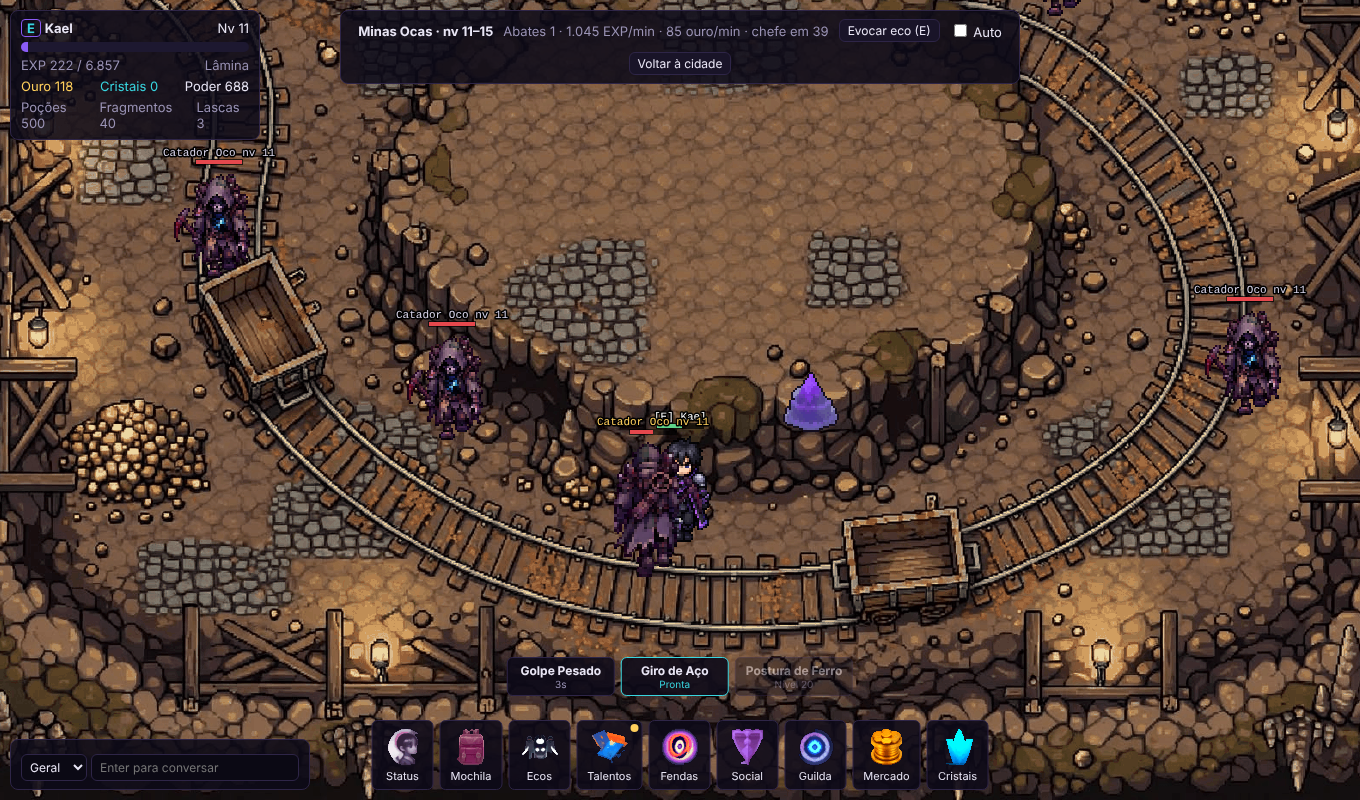
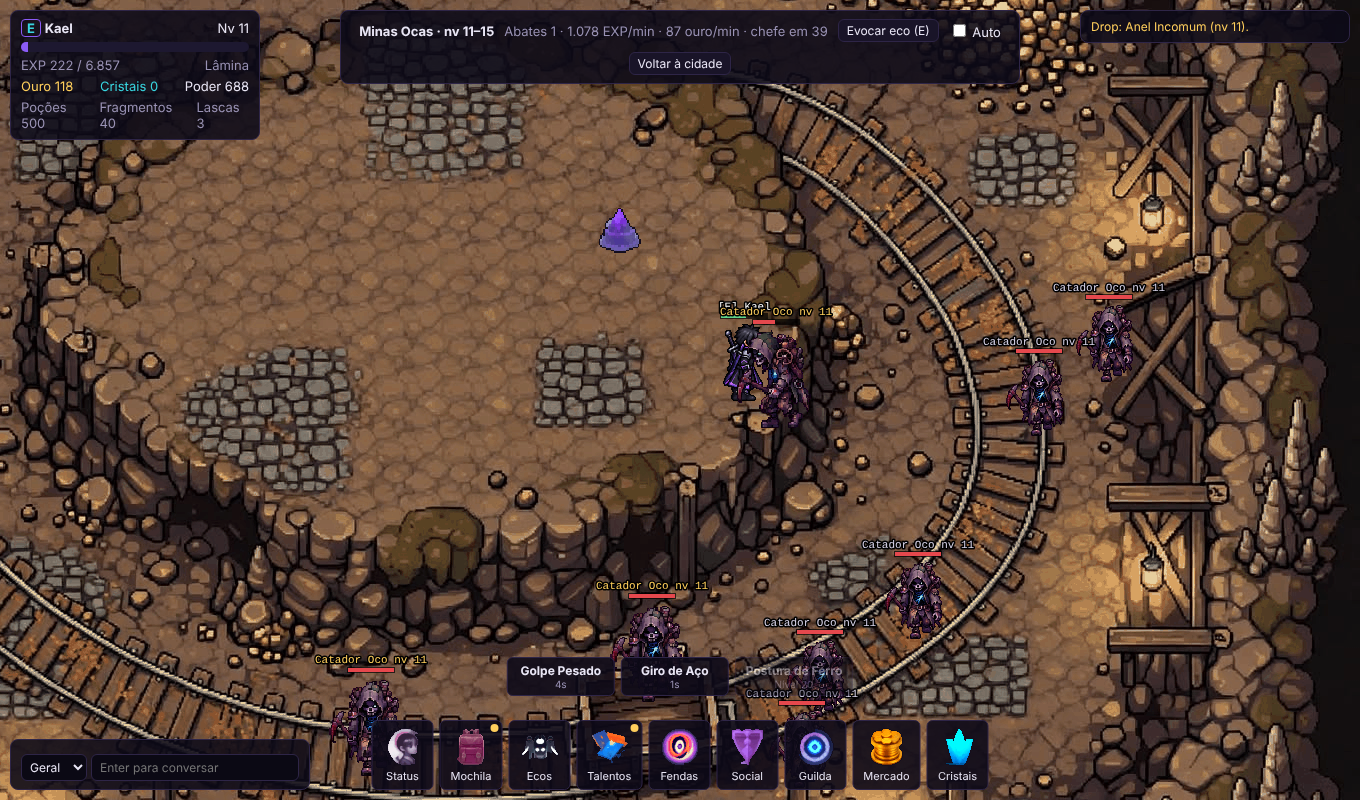
Mapas maiores e personagens em tamanho real
Os mundos passam a ter 1920x1280, o tamanho dos mapas gerados, e o mapa
aparece sem redução. As folhas animadas são reimportadas com 80 px de
altura e exibidas sem ampliação; sprites antigos são ampliados 1,5x
para a mesma altura. Os NPCs, as margens das paredes e a quantidade de
monstros acompanham o mundo maior. import_map.py não apaga mais o
original quando é reimportado a partir dele.

Claude-Session: https://claude.ai/code/session_01R9bEA8madkQfyix1h3Gv4o

diff --git a/client/src/scene.ts b/client/src/scene.ts
@@ -8,7 +8,10 @@ import { onMessage, send } from './net.ts'
 
 // Formatos que a cena não carrega: ícones e fundo são da interface; 'props' só alimenta o montador de mapas.
 const UI_ONLY = new Set(['icon', 'wide', 'props'])
-const SCALE = 2 // ampliação dos sprites em pixel art
+// Folhas animadas já vêm no tamanho final (80 px de altura) e aparecem em tamanho real.
+// Imagens únicas antigas (52 px) são ampliadas para ficar na mesma altura.
+const LEGACY = 1.5
+const scaleFor = (key: string) => (ANIMATED.has(key) ? 1 : LEGACY)
 const CELL = 64 // tamanho da célula dos marcadores gerados por código
 const hash = (s: string) => { let h = 2166136261; for (let i = 0; i < s.length; i++) h = Math.imul(h ^ s.charCodeAt(i), 16777619); return h >>> 0 }
 const hsl = (h: number, s: number, l: number) => `hsl(${h % 360} ${s}% ${l}%)`
@@ -152,9 +155,10 @@ export class GameScene extends Phaser.Scene {
     if (room.kind === 'city') {
       for (const n of NPCS) {
         const key = `npcs/${n.id}`
-        this.decor.push(this.add.image(n.x, n.y, key).setScale(SCALE).setOrigin(0.5, 1).setDepth(n.y))
-        this.decor.push(this.add.text(n.x, n.y - 122, n.name, { fontSize: '12px', color: '#ffcf5c', stroke: '#000', strokeThickness: 3 }).setOrigin(0.5).setDepth(5000))
-        if (n.panel === 'fendas') this.decor.push(this.add.image(n.x + 96, n.y - 6, 'objetos/fenda').setScale(SCALE).setOrigin(0.5, 1).setDepth(n.y - 1))
+        const img = this.add.image(n.x, n.y, key).setScale(scaleFor(key)).setOrigin(0.5, 1).setDepth(n.y)
+        this.decor.push(img)
+        this.decor.push(this.add.text(n.x, n.y - img.displayHeight - 10, n.name, { fontSize: '12px', color: '#ffcf5c', stroke: '#000', strokeThickness: 3 }).setOrigin(0.5).setDepth(5000))
+        if (n.panel === 'fendas') this.decor.push(this.add.image(n.x + 80, n.y - 6, 'objetos/fenda').setScale(LEGACY).setOrigin(0.5, 1).setDepth(n.y - 1))
       }
     }
   }
@@ -172,7 +176,7 @@ export class GameScene extends Phaser.Scene {
       if (!v) {
         const key = this.textureFor(e)
         // Escala inteira: cada pixel do sprite vira um bloco nítido. Elites são um pouco maiores.
-        const sprite = this.add.image(0, 0, key).setScale(e.mk === 'elite' ? SCALE + 0.5 : SCALE).setOrigin(0.5, 1)
+        const sprite = this.add.image(0, 0, key).setScale(scaleFor(key) * (e.mk === 'elite' ? 1.25 : 1)).setOrigin(0.5, 1)
         const size = sprite.displayHeight
         const box = this.add.container(e.x, e.y, [sprite])
         if (e.k === 'e') sprite.setTint(0x8a6cff).setAlpha(0.88)
@@ -225,7 +229,7 @@ export class GameScene extends Phaser.Scene {
           const key = f.proj === 'arrow' ? 'efeitos/flecha' : 'efeitos/projetil-arcano'
           const p = this.add.image(a.box.x, a.box.y - 40, key).setDisplaySize(36, 36).setDepth(8998).setRotation(Math.atan2(by - (a.box.y - 40), bx - a.box.x))
           this.tweens.add({ targets: p, x: bx, y: by, duration: 110, onComplete: () => p.destroy() })
-        } else this.burst('efeitos/golpe', bx, by, 90)
+        } else this.burst('efeitos/golpe', bx, by, 64)
       }
       const mine = b.ent.me
       this.floatText(bx, by - 14, `${f.crit ? '✦' : ''}${f.dmg}`, mine ? '#ff6b7a' : f.skill ? '#7df2ff' : f.crit ? '#ffcf5c' : '#ffffff', f.skill ? 19 : f.crit ? 18 : 13)

diff --git a/shared/content.ts b/shared/content.ts
@@ -141,17 +141,18 @@ export const RIFTS: RiftDef[] = [
 ]
 export const BOSS_EVERY_KILLS = 40
 export const ELITE_CHANCE = 0.06
-export const HUNT_MAP = { w: 1600, h: 1100 }
-export const CITY_MAP = { w: 1400, h: 1000 }
+// Mundos no tamanho exato dos mapas gerados (1920×1280, proporção 3:2): o mapa aparece sem redução.
+export const HUNT_MAP = { w: 1920, h: 1280 }
+export const CITY_MAP = { w: 1920, h: 1280 }
 export const CITY_NAME = 'Vértice'
 
 export interface NpcDef { id: string; name: string; role: string; panel: string; x: number; y: number }
 // Posições casadas com as quatro praças redondas das diagonais do mapa da cidade (mapas/cidade.png).
 export const NPCS: NpcDef[] = [
-  { id: 'guardia-das-fendas', name: 'Ísis, Guardiã das Fendas', role: 'Abre as caçadas', panel: 'fendas', x: 290, y: 310 },
-  { id: 'mercador', name: 'Tobias, o Mercador', role: 'Vende consumíveis', panel: 'loja', x: 290, y: 728 },
-  { id: 'ferreira', name: 'Dária, a Ferreira', role: 'Aprimora equipamentos', panel: 'forja', x: 1110, y: 310 },
-  { id: 'arquivista', name: 'Noé, o Arquivista', role: 'Mostra o ranking', panel: 'ranking', x: 1110, y: 728 },
+  { id: 'guardia-das-fendas', name: 'Ísis, Guardiã das Fendas', role: 'Abre as caçadas', panel: 'fendas', x: 435, y: 400 },
+  { id: 'mercador', name: 'Tobias, o Mercador', role: 'Vende consumíveis', panel: 'loja', x: 435, y: 935 },
+  { id: 'ferreira', name: 'Dária, a Ferreira', role: 'Aprimora equipamentos', panel: 'forja', x: 1485, y: 400 },
+  { id: 'arquivista', name: 'Noé, o Arquivista', role: 'Mostra o ranking', panel: 'ranking', x: 1485, y: 935 },
 ]
 
 // ---------- Progressão ----------

diff --git a/server/src/hunt.ts b/server/src/hunt.ts
@@ -37,8 +37,10 @@ interface Corpse { id: number; x: number; y: number; species: string; kind: MobK
 
 const AGGRO_RADIUS = 170
 // Os mapas têm paredes nas bordas: monstros nascem dentro da área livre e ninguém anda por cima das paredes.
-const EDGE_X = 190, EDGE_Y = 170
-const WALL_X = 130, WALL_Y = 120
+const EDGE_X = 230, EDGE_Y = 200
+const WALL_X = 160, WALL_Y = 140
+// Mapa de 1920×1280: mais monstros para manter a densidade da caçada.
+const MOB_COUNT = 12
 // O chefe do teste de promoção é mais fraco que o chefe da fenda: a luta é solo e sem ecos.
 const PROMO_HP = 0.5
 const PROMO_ATK = 0.62
@@ -67,7 +69,7 @@ export class Hunt {
     this.now = opt.now ?? Date.now
     const list: MemberInit[] = Array.isArray(inits) ? inits : [{ c: inits, key: 0 }]
     list.forEach((init, i) => this.addMember(init, i, list.length))
-    if (opt.mode === 'hunt') for (let i = 0; i < 9 + 4 * (list.length - 1); i++) this.spawnMob()
+    if (opt.mode === 'hunt') for (let i = 0; i < MOB_COUNT + 5 * (list.length - 1); i++) this.spawnMob()
     else if (opt.mode === 'promotion') { this.timeLeft = opt.seconds; this.spawnMob('chefe', this.w / 2 + 260, this.h / 2) }
     else this.timeLeft = opt.seconds
   }

diff --git a/tests/game.test.ts b/tests/game.test.ts
@@ -113,7 +113,7 @@ describe('talentos, habilidades, grupo e arena', () => {
   it('em grupo, todos recebem EXP e ouro e a queda de um não encerra a caçada', () => {
     const a = newCharacter('A', 'lamina'), b2 = newCharacter('B', 'arcanista'), band = RIFTS[0].bands[0]
     const h = new Hunt([{ c: a, key: 1 }, { c: b2, key: 2 }], { mode: 'hunt', monster: band.monster, boss: band.boss, minLevel: band.min, maxLevel: band.max, rng: seeded(9) })
-    expect(h.mobs.length).toBe(13)
+    expect(h.mobs.length).toBe(17)
     for (let i = 0; i < 900 && !h.ended; i++) h.tick(0.1)
     expect(h.kills).toBeGreaterThan(5)
     expect(a.kills).toBe(h.kills); expect(b2.kills).toBe(h.kills)

diff --git a/server/src/world.ts b/server/src/world.ts
@@ -17,7 +17,7 @@ const NAME_RE = /^[\p{L}\p{N}_]{3,16}$/u
 const GUILD_NAME_RE = /^[\p{L}\p{N} ]{3,20}$/u
 const TAG_RE = /^[\p{L}\p{N}]{2,4}$/u
 const CITY_SPEED = 190
-const CITY_EDGE_X = 190, CITY_EDGE_TOP = 235, CITY_EDGE_BOTTOM = 190
+const CITY_EDGE_X = 300, CITY_EDGE_TOP = 300, CITY_EDGE_BOTTOM = 245
 const CITY_MAX_PLAYERS_IN_SNAPSHOT = 60
 const INVITE_MS = 60_000
 

diff --git a/tools/ai-assets/import_map.py b/tools/ai-assets/import_map.py
@@ -13,13 +13,13 @@ from PIL import Image
 
 HERE = os.path.dirname(os.path.abspath(__file__))
 ROOT = os.path.dirname(os.path.dirname(HERE))
-WORLD = {"cidade": (1400, 1000)}  # demais mapas: 1600x1100 (shared/content.ts: HUNT_MAP e CITY_MAP)
+WORLD = (1920, 1280)  # shared/content.ts: HUNT_MAP e CITY_MAP
 NAMES = ["cidade", "minas-ocas", "bosque-cinzento", "cidadela-afundada", "forja-extinta", "arena"]
 
 def main():
     ap = argparse.ArgumentParser(); ap.add_argument("image"); ap.add_argument("map", choices=NAMES)
     args = ap.parse_args()
-    w, h = WORLD.get(args.map, (1600, 1100))
+    w, h = WORLD
     im = Image.open(args.image).convert("RGB")
     W, H = im.size
     if W / H > w / h: cw, ch = round(H * w / h), H      # mais largo que o mundo: corta as laterais
@@ -29,11 +29,13 @@ def main():
     path = os.path.join(ROOT, "client/public/assets/mapas", args.map + ".png")
     # Paleta de 256 cores: metade do tamanho do arquivo, sem diferença visível em pixel art.
     out.quantize(colors=256, method=Image.MEDIANCUT, dither=Image.NONE).save(path, optimize=True)
-    os.makedirs(os.path.join(HERE, "originais"), exist_ok=True)
+    orig_dir = os.path.join(HERE, "originais"); os.makedirs(orig_dir, exist_ok=True)
     ext = os.path.splitext(args.image)[1].lower() or ".png"
-    for old in os.listdir(os.path.join(HERE, "originais")):
-        if old.startswith(f"mapas-{args.map}."): os.remove(os.path.join(HERE, "originais", old))
-    shutil.copyfile(args.image, os.path.join(HERE, "originais", f"mapas-{args.map}{ext}"))
+    dest = os.path.join(orig_dir, f"mapas-{args.map}{ext}")
+    if os.path.abspath(args.image) != os.path.abspath(dest):   # reimportar a partir do próprio original não pode apagá-lo
+        for old in os.listdir(orig_dir):
+            if old.startswith(f"mapas-{args.map}."): os.remove(os.path.join(orig_dir, old))
+        shutil.copyfile(args.image, dest)
     print(f"ok mapas/{args.map}: {w}x{h} (cortado de {cw}x{ch}), {os.path.getsize(path) // 1024} KB")
 
 if __name__ == "__main__": main()

diff --git a/tools/ai-assets/import_sheet.py b/tools/ai-assets/import_sheet.py
@@ -8,7 +8,7 @@ A imagem deve ter 4 colunas x 4 linhas (linhas: baixo, esquerda, direita, cima; 
 com fundo transparente ou magenta liso (#FF00FF). O script:
   1. remove o fundo (transparência ou chave de cor magenta);
   2. corta cada quadro e alinha os pés na base e o tronco no centro, para o personagem não "tremer" ao andar;
-  3. reduz para o tamanho dos sprites do jogo (54 px de altura; chefes, 86 px) pela mediana de cada bloco;
+  3. reduz para o tamanho dos sprites do jogo (80 px de altura; chefes, 128 px) pela mediana de cada bloco;
   4. salva em client/public/assets/<id>.png e registra o id em shared/animated.json.
 Requer: pillow e numpy.
 """
@@ -84,9 +84,9 @@ def main():
         frames[dst] = (cell, top, bottom, left, right, anchor)
         print(f"  quadro {dst + 1} substituído pelo {src + 1}{' espelhado' if mirror else ''}")
     tall = max(f[2] - f[1] + 1 for f in frames)
-    # Altura padrão igual à dos demais sprites do jogo: 54 px (chefes, 86 px). O jogo amplia 2x.
+    # Altura padrão: 80 px (chefes, 128 px), exibida em tamanho real.
     manifest = {m["id"]: m for m in json.load(open(os.path.join(os.path.dirname(os.path.abspath(__file__)), "manifest.json")))}
-    target = args.height or (86 if manifest.get(args.id, {}).get("optional") else 54)
+    target = args.height or (128 if manifest.get(args.id, {}).get("optional") else 80)
     bs = tall / target
     k = target / tall
     # canvas comum a todos os quadros, com os pés na mesma linha e o tronco no mesmo eixo

diff --git a/tools/ai-assets/maps.py b/tools/ai-assets/maps.py
@@ -10,8 +10,8 @@ from PIL import Image
 
 ROOT = os.path.dirname(os.path.dirname(os.path.dirname(os.path.abspath(__file__))))
 OUT = os.path.join(ROOT, "client/public/assets/mapas")
-HUNT = (800, 550)   # mundo 1600x1100
-CITY = (700, 500)   # mundo 1400x1000
+HUNT = (960, 640)   # mundo 1920x1280 (exibido 2x)
+CITY = (960, 640)   # mundo 1920x1280 (exibido 2x)
 # NPCs da cidade em coordenadas do mundo (shared/content.ts): caminhos levam até eles
 NPCS = [(700, 260), (380, 520), (1020, 520), (700, 760)]
 

diff --git a/tools/ai-assets/README.md b/tools/ai-assets/README.md
@@ -25,7 +25,7 @@ Para colocar uma folha animada gerada no ChatGPT (melhor qualidade):
 ```
 
 O id registrado em `shared/animated.json` passa a ser animado no jogo. Guarde a imagem original em
-`tools/ai-assets/originais/` para poder reprocessar. Chefes saem maiores automaticamente (86 px).
+`tools/ai-assets/originais/` para poder reprocessar. Chefes saem maiores automaticamente (128 px).
 
 Para colocar um mapa gerado no ChatGPT:
 
@@ -33,8 +33,8 @@ Para colocar um mapa gerado no ChatGPT:
 .venv/bin/python tools/ai-assets/import_map.py ~/Downloads/bosque.png bosque-cinzento
 ```
 
-O mapa precisa ter paredes ou cenário nas bordas e o centro livre: os monstros nascem a pelo menos 190 px
-das laterais e 170 px de cima e de baixo, e ninguém anda nos 130 px das bordas (mundo de 1600×1100).
+O mapa precisa ter paredes ou cenário nas bordas e o centro livre: os monstros nascem a pelo menos 230 px
+das laterais e 200 px de cima e de baixo, e ninguém anda nos 160 px das bordas (mundo de 1920×1280).
 
 Para refazer um sprite: apague o PNG e rode `fetch.py <id>` (ex.: `monstros/lobo-de-nevoa`), ou passe outro
 `--seed` para obter outra variação. As descrições ficam em `shared/assets.ts`. Para mudar um mapa, edite a
